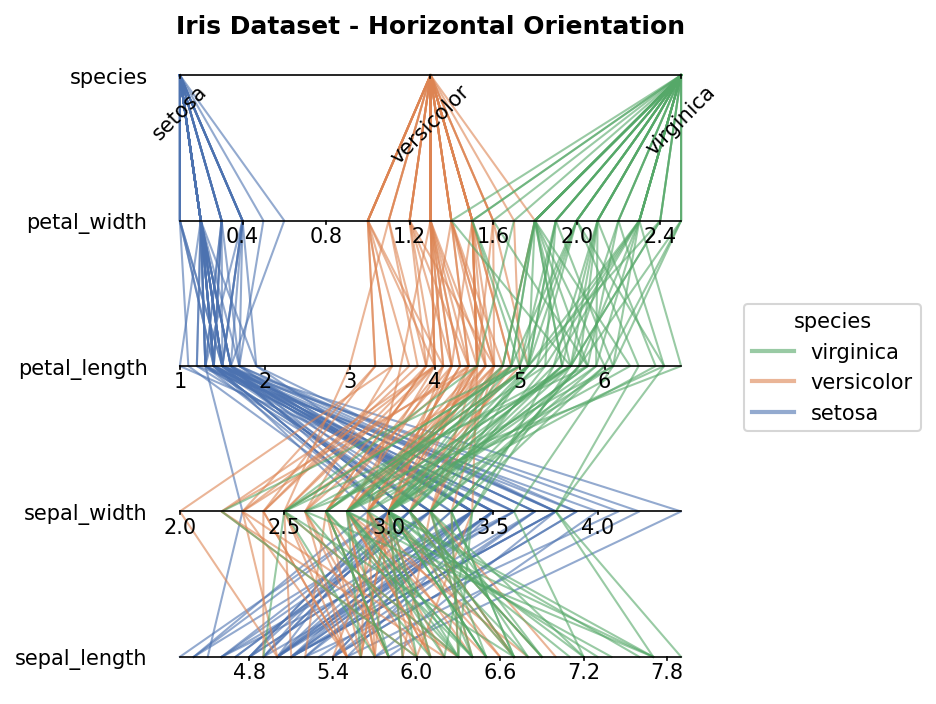
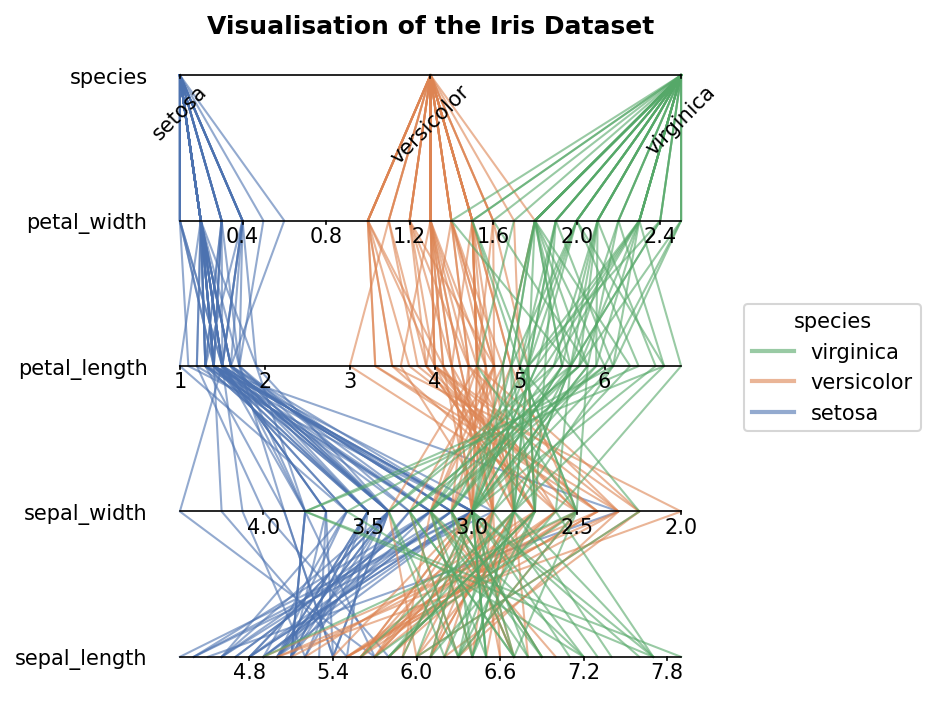
Add flip parameter to parallelplot for axis inversion; update demo and documentation

Changed region(s): [[0.1859, 0.5, 0.7436, 0.9375], [0.1859, 0.0, 0.7436, 0.0625], [0.6506, 0.8125, 0.6816, 0.8438]]

diff --git a/src/seaborn_parallel/parallelplot.py b/src/seaborn_parallel/parallelplot.py
@@ -26,6 +26,7 @@ def _generate_ticks(
     original_ranges: Dict[str, Tuple[float, float]],
     categorical_info: Dict[str, dict],
     data: pd.DataFrame,
+    flip: Optional[List[str]] = None,
 ) -> Tuple[List, List, np.ndarray]:
     """
     Generate tick values, labels, and normalized positions for a variable.
@@ -40,6 +41,8 @@ def _generate_ticks(
         Categorical variable information
     data : DataFrame
         Original data (for dtypes)
+    flip : list of str, optional
+        Variables whose axes should be reversed
 
     Returns
     -------
@@ -88,6 +91,11 @@ def _generate_ticks(
         else:
             norm_ticks = np.array([0.5])
 
+    # Apply flip transformation to normalized tick positions
+    is_flipped = flip is not None and var in flip
+    if is_flipped:
+        norm_ticks = 1 - norm_ticks
+
     return tick_vals, tick_labels, norm_ticks
 
 
@@ -99,6 +107,7 @@ def _draw_axis_with_ticks(
     categorical_info: Dict[str, dict],
     data: pd.DataFrame,
     orient: Literal["v", "h"],
+    flip: Optional[List[str]] = None,
 ) -> None:
     """
     Draw a single axis with ticks and labels.
@@ -119,10 +128,12 @@ def _draw_axis_with_ticks(
         Original data (for dtypes)
     orient : {'v', 'h'}
         Orientation
+    flip : list of str, optional
+        Variables whose axes should be reversed
     """
     # Generate ticks
     tick_vals, tick_labels, norm_ticks = _generate_ticks(
-        var, original_ranges, categorical_info, data
+        var, original_ranges, categorical_info, data, flip
     )
 
     # Determine if categorical for text rotation
@@ -209,6 +220,7 @@ def _normalize_data(
     sharex: bool,
     sharey: bool,
     category_orders: Optional[Dict[str, List]] = None,
+    flip: Optional[List[str]] = None,
 ) -> Tuple[pd.DataFrame, Dict[str, Tuple[float, float]], Dict[str, dict]]:
     """
     Normalize data to [0, 1] range for plotting.
@@ -229,6 +241,8 @@ def _normalize_data(
         Share y-axis range (for vertical)
     category_orders : dict, optional
         Custom category orders
+    flip : list of str, optional
+        Variables whose axes should be reversed (flipped)
 
     Returns
     -------
@@ -324,6 +338,12 @@ def _normalize_data(
             normalized_df[var] = 0.5
 
         original_ranges[var] = (0, len(categories) - 1)
+
+    # Apply flip transformations (invert normalized values)
+    if flip:
+        for var in flip:
+            if var in vars:
+                normalized_df[var] = 1 - normalized_df[var]
 
     return normalized_df, original_ranges, categorical_info
 
@@ -769,6 +789,7 @@ def _add_independent_tick_labels(
     categorical_info: Dict[str, dict],
     data: pd.DataFrame,
     orient: Literal["v", "h"],
+    flip: Optional[List[str]] = None,
 ) -> None:
     """
     Add independent tick labels for both orientations.
@@ -787,6 +808,8 @@ def _add_independent_tick_labels(
         Original data (for dtypes)
     orient : {'v', 'h'}
         Orientation
+    flip : list of str, optional
+        Variables whose axes should be reversed
     """
     # For independent axes, we draw custom tick labels for values on each variable axis,
     # but keep the variable names on the cross-axis (x for vertical, y for horizontal)
@@ -807,7 +830,14 @@ def _add_independent_tick_labels(
     # Add independent axis for each variable
     for i, var in enumerate(vars):
         _draw_axis_with_ticks(
-            ax, var, i, original_ranges, categorical_info, data, orient=orient
+            ax,
+            var,
+            i,
+            original_ranges,
+            categorical_info,
+            data,
+            orient=orient,
+            flip=flip,
         )
 
 
@@ -824,6 +854,7 @@ def parallelplot(
     sharey: bool = False,
     categorical_axes: Optional[List[str]] = None,
     category_orders: Optional[Dict[str, List]] = None,
+    flip: Optional[List[str]] = None,
     **kwargs: Any,
 ) -> plt.Axes:
     """
@@ -878,6 +909,12 @@ def parallelplot(
         Custom ordering for categorical variables. Keys are variable names, values
         are lists specifying the desired category order.
         Example: {'species': ['setosa', 'versicolor', 'virginica']}
+    flip : list of str, optional
+        Variables whose axes should be reversed (flipped). Specified variables will
+        display values from high to low instead of low to high. Works with both
+        numeric and categorical variables. Useful for emphasizing negative correlations
+        or aligning scales for better visual comparison.
+        Example: ['sepal_width', 'petal_width']
     **kwargs
         Additional keyword arguments passed to seaborn.objects.Lines().
         Common options: 'color', 'linestyle', 'marker', etc.
@@ -958,6 +995,16 @@ def parallelplot(
     ...     vars=['day', 'total_bill', 'tip'],
     ...     category_orders={'day': ['Thur', 'Fri', 'Sat', 'Sun']},
     ...     hue='time'
+    ... )
+
+    Flip axes to reverse specific variables:
+
+    >>> iris = sns.load_dataset('iris')
+    >>> ax = snp.parallelplot(
+    ...     iris,
+    ...     flip=['sepal_width'],
+    ...     category_orders={'species': ['setosa', 'versicolor', 'virginica']},
+    ...     hue='species'
     ... )
     """
     # Validate inputs
@@ -1042,6 +1089,21 @@ def parallelplot(
     # Store original data for dtype info
     original_data = data.copy()
 
+    # Validate flip parameter
+    if flip is not None:
+        invalid_flip = [v for v in flip if v not in vars]
+        if invalid_flip:
+            warnings.warn(
+                f"Variables in flip parameter not found in vars: {invalid_flip}. "
+                f"Available variables: {vars}. These will be ignored.",
+                UserWarning,
+                stacklevel=2,
+            )
+            # Filter out invalid variables
+            flip = [v for v in flip if v in vars]
+            if not flip:
+                flip = None
+
     # Reverse category_orders for intuitive user input (top-to-bottom display)
     if category_orders:
         category_orders = {
@@ -1050,7 +1112,7 @@ def parallelplot(
 
     # Normalize data
     normalized_df, original_ranges, categorical_info = _normalize_data(
-        data, vars, hue, orient, sharex, sharey, category_orders
+        data, vars, hue, orient, sharex, sharey, category_orders, flip
     )
 
     # Extract ordered categories for hue if it's categorical
@@ -1130,6 +1192,7 @@ def parallelplot(
             categorical_info,
             original_data,
             normalized_orient,
+            flip,
         )
 
         # Fix inverted y-axis in horizontal orientation

diff --git a/scripts/demo_iris.py b/scripts/demo_iris.py
@@ -1,5 +1,6 @@
 """
-Demo: Iris Dataset - Classic Parallel Coordinates Example
+script for generating the demo thubmnail for the project
+
 Run with: uv run python scripts/demo_iris.py
 """
 
@@ -21,12 +22,12 @@ def main():
     snp.parallelplot(
         data=iris,
         vars=["sepal_length", "sepal_width", "petal_length", "petal_width", "species"],
-        # flip=["sepal_width"],
+        flip=["sepal_width"],
         hue="species",
         orient="h",
     )
 
-    plt.title("Iris Dataset - Horizontal Orientation", fontsize=12, fontweight="bold")
+    plt.title("Visualisation of the Iris Dataset", fontsize=12, fontweight="bold")
     plt.tight_layout()
 
     output_path = "demo.png"

diff --git a/TODOs.md b/TODOs.md
@@ -1,8 +1,8 @@
+# TODOs
 
 
-FEATURE
 
-- add an input parameter for specifying which variables should be displayed with inverted axis direction.
+## FEATURE
 
 
 input parameter for adding an additional label, e.g. for describing the shared units of numeric axes (when all axes share the same unit). for horizontal orientation this would be a label below the x-axis, for vertical orientation a label left of the y-axis. the style should match the axis tick labels, the font should be slightly smaller than the tick labels.
@@ -11,7 +11,7 @@ input parameter for tick label formatting. could be a format string or a callabl
 
 
 
-BUGFIX
+### BUGFIXes
 
 the "grid" styles are not properly applied. the grid lines are missing
 
@@ -20,7 +20,9 @@ see aggressive_workaround_demo.py for a demonstration of working code. this is h
 
 
 
-MATURITY
+## MATURITY
+
+simplify the test cases. use parameterisation wherever possible. apply the DRY principle
 
 
 clean up all outdated prototype and experimentation code and results.
@@ -37,7 +39,7 @@ get rid of all local imports and move them to the top of the module
 
 
 
-DOCUMENTATION
+## DOCUMENTATION
 
 
 include remarks in the project documentation that this project aims at wrapping and extending seaborn code as much as possible without duplicating functionality.
@@ -53,7 +55,7 @@ Mention the design decision to keep the core logic inside a single module file. 
 
 
 
-EDGE CASE HANDLING
+## EDGE CASE HANDLING
 
 desired edge case handling: as soon as there are entries of None, inf etc. treat the column as a non-continous categorical column.
 output a warning in such cases.
